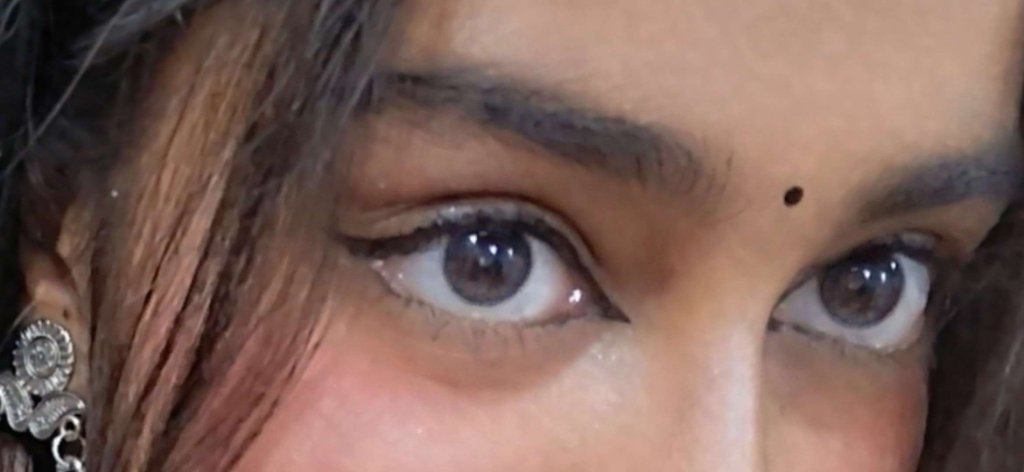
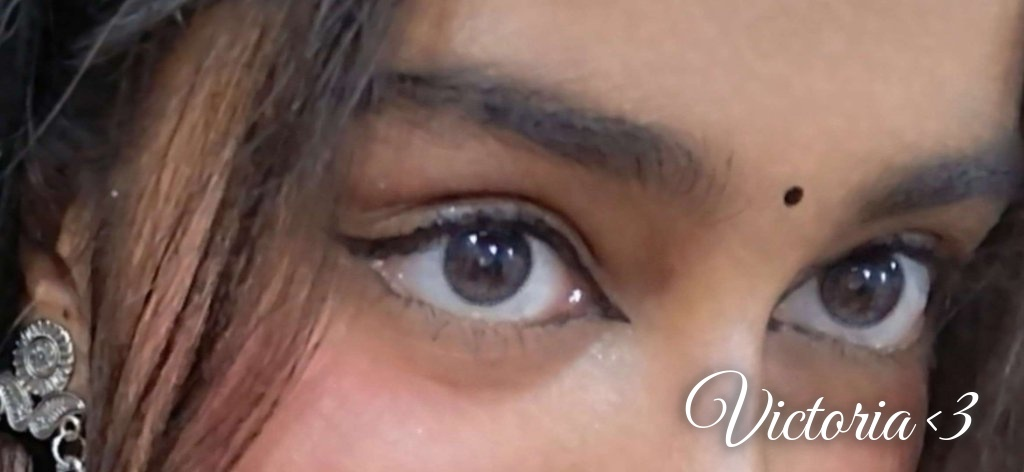
feat: polish victoria card with cursive white glow text, dynamic mention and song info

Changed region(s): [[0.6562, 0.7712, 0.9688, 0.9788]]

diff --git a/ts/src/events/messageCreate.ts b/ts/src/events/messageCreate.ts
@@ -10,7 +10,13 @@ import {
   formatAfkDuration,
   storeReturnedMentions,
 } from '../cards/afk';
-import { VICTORIA_COMMAND_ALLOWED, victoriaCard } from '../cards/victoria';
+import {
+  VICTORIA_COMMAND_ALLOWED,
+  VICTORIA_USER_ID,
+  setVictoriaUserId,
+  victoriaCard,
+} from '../cards/victoria';
+import { lavalink } from '../music/manager';
 import { logger } from '../logging';
 
 const log = logger('afk');
@@ -49,17 +55,70 @@ export default createEvent({
 
     // ── 0. Secret prefix command: hervictoria ───────────────────────────────────
     const content = typeof message.content === 'string' ? message.content.trim() : '';
-    if (content.toLowerCase() === 'hervictoria') {
+    const lowerContent = content.toLowerCase();
+    if (lowerContent === 'hervictoria' || lowerContent.startsWith('hervictoria ')) {
       if (!VICTORIA_COMMAND_ALLOWED.includes(authorId)) {
         log.info(`[victoria] Unauthorised attempt by ${authorId}`);
         return;
       }
       log.info(`[victoria] Triggered by ${authorId}`);
+
+      // Try cleaning up the command message for maximum aesthetic surprise
       try {
+        await message.delete();
+      } catch {}
+
+      try {
+        // 1. Resolve her mention
+        let mentionText = '';
+        let targetId = VICTORIA_USER_ID;
+
+        // If mentioned in the message: e.g. "hervictoria @user"
+        if (!targetId && Array.isArray(message.mentions?.users) && message.mentions.users.length > 0) {
+          const mentionedUser = message.mentions.users[0];
+          targetId = String(mentionedUser?.id ?? (mentionedUser as any)?.user?.id ?? '').trim();
+          if (targetId) setVictoriaUserId(targetId);
+        }
+
+        // Try looking up victoria in guild members if still unknown
+        if (!targetId && currentGuildId) {
+          try {
+            const results = await client.members.search(currentGuildId, { query: 'victoria', limit: 1 });
+            if (results && results.length > 0) {
+              const m = results[0];
+              targetId = String(m?.id ?? (m as any)?.user?.id ?? '').trim();
+              if (targetId) setVictoriaUserId(targetId);
+            }
+          } catch {}
+        }
+
+        if (targetId) {
+          mentionText = `<@${targetId}>`;
+        } else {
+          // If no numeric snowflake, use clean username (NOT broken <@username>)
+          mentionText = `**@victoria_delaney**`;
+        }
+
+        // 2. Check if a song is currently playing in this guild
+        let currentTrackTitle: string | undefined;
+        if (currentGuildId) {
+          try {
+            const player = lavalink().getPlayer(currentGuildId);
+            const current = player?.queue?.current;
+            if (current?.info?.title) {
+              currentTrackTitle = current.info.title;
+            }
+          } catch {}
+        }
+
         const imgPath = victoriaImagePath();
         const imgBuffer = readFileSync(imgPath);
 
-        const card = victoriaCard('attachment://victoria_eyes.jpg');
+        const card = victoriaCard({
+          imageUrl: 'attachment://victoria_eyes.jpg',
+          mentionText,
+          currentTrackTitle,
+        });
         const payload = card.toMessage();
 
         await client.messages.write(message.channelId, {

diff --git a/ts/src/cards/victoria.ts b/ts/src/cards/victoria.ts
@@ -2,48 +2,58 @@
  * A private card — built for one person, meant for one person.
  *
  * Usage: prefix command `hervictoria` (authorized users only).
- * Sends a personalized Components V2 card tagging victoria_delaney,
- * with her eyes as a media gallery image and hand-written poetry.
+ * Sends a personalized Components V2 card dedicated to Victoria,
+ * featuring her eyes with an ethereal glowing signature and heartfelt poetry.
  */
 import { E } from '../components/emoji';
 import { type FadeResponse, response } from '../components/v2';
 
-/** Discord user ID of victoria_delaney — used for the @mention. */
-export const VICTORIA_USER_ID = ''; // fill her ID here if known, else we use username mention
+/** Discord user ID of Victoria if known (can be populated or dynamically resolved). */
+export let VICTORIA_USER_ID = '';
+
+export function setVictoriaUserId(id: string): void {
+  VICTORIA_USER_ID = id;
+}
 
 /** Authorised senders who may trigger this command. */
 export const VICTORIA_COMMAND_ALLOWED: readonly string[] = [
   '965299353499619478',  // senpai_salvatore
-  '1530762097213050880', // owner (testing)
+  '1530762097213050880', // owner / dev testing
 ];
 
+export interface VictoriaCardOptions {
+  imageUrl: string;
+  mentionText: string;
+  currentTrackTitle?: string;
+}
+
 /**
- * The card itself.
- *
- * The eyes image is passed as an attachment URL (`attachment://victoria_eyes.jpg`)
- * so Discord renders it inline inside the MediaGallery.
+ * Renders the aesthetic Victoria card.
  */
-export function victoriaCard(imageUrl: string): FadeResponse {
+export function victoriaCard(opts: VictoriaCardOptions): FadeResponse {
+  const musicNote = opts.currentTrackTitle
+    ? `${E.MUSIC} Now playing: **${opts.currentTrackTitle}**\n-# *this melody has been thinking of you.*`
+    : `-# *every love song suddenly sounds like you.*`;
+
   return response()
     .container(undefined, (c) =>
       c
         .text(
-          `## ${E.STAR} victoria_delaney\n` +
-          `-# *a small thing, made with intention*`,
+          `## ${E.SHINE} Victoria\n` +
+          `-# *some people are art without even trying.*`,
         )
         .separator(false)
-        .mediaGallery((g) => g.item(imageUrl, 'her eyes'))
+        .mediaGallery((g) => g.item(opts.imageUrl, 'her eyes'))
         .separator(true)
         .text(
-          `> *there are eyes that hold entire skies —*\n` +
-          `> *the kind you don't forget,*\n` +
-          `> *no matter how hard you try.*\n` +
-          `> *yours are that kind.*`,
+          `> *some eyes you just pass by in a crowded room —*\n` +
+          `> *and some, you get lost in forever.*\n` +
+          `> *yours are the kind a thousand songs could never finish describing.*`,
         )
         .separator(false)
         .text(
-          `${E.MOON}  <@${VICTORIA_USER_ID || 'victoria_delaney'}>\n` +
-          `-# *this song has been thinking about you.*`,
+          `${E.MOON} ${opts.mentionText}\n` +
+          `${musicNote}`,
         ),
     );
 }
